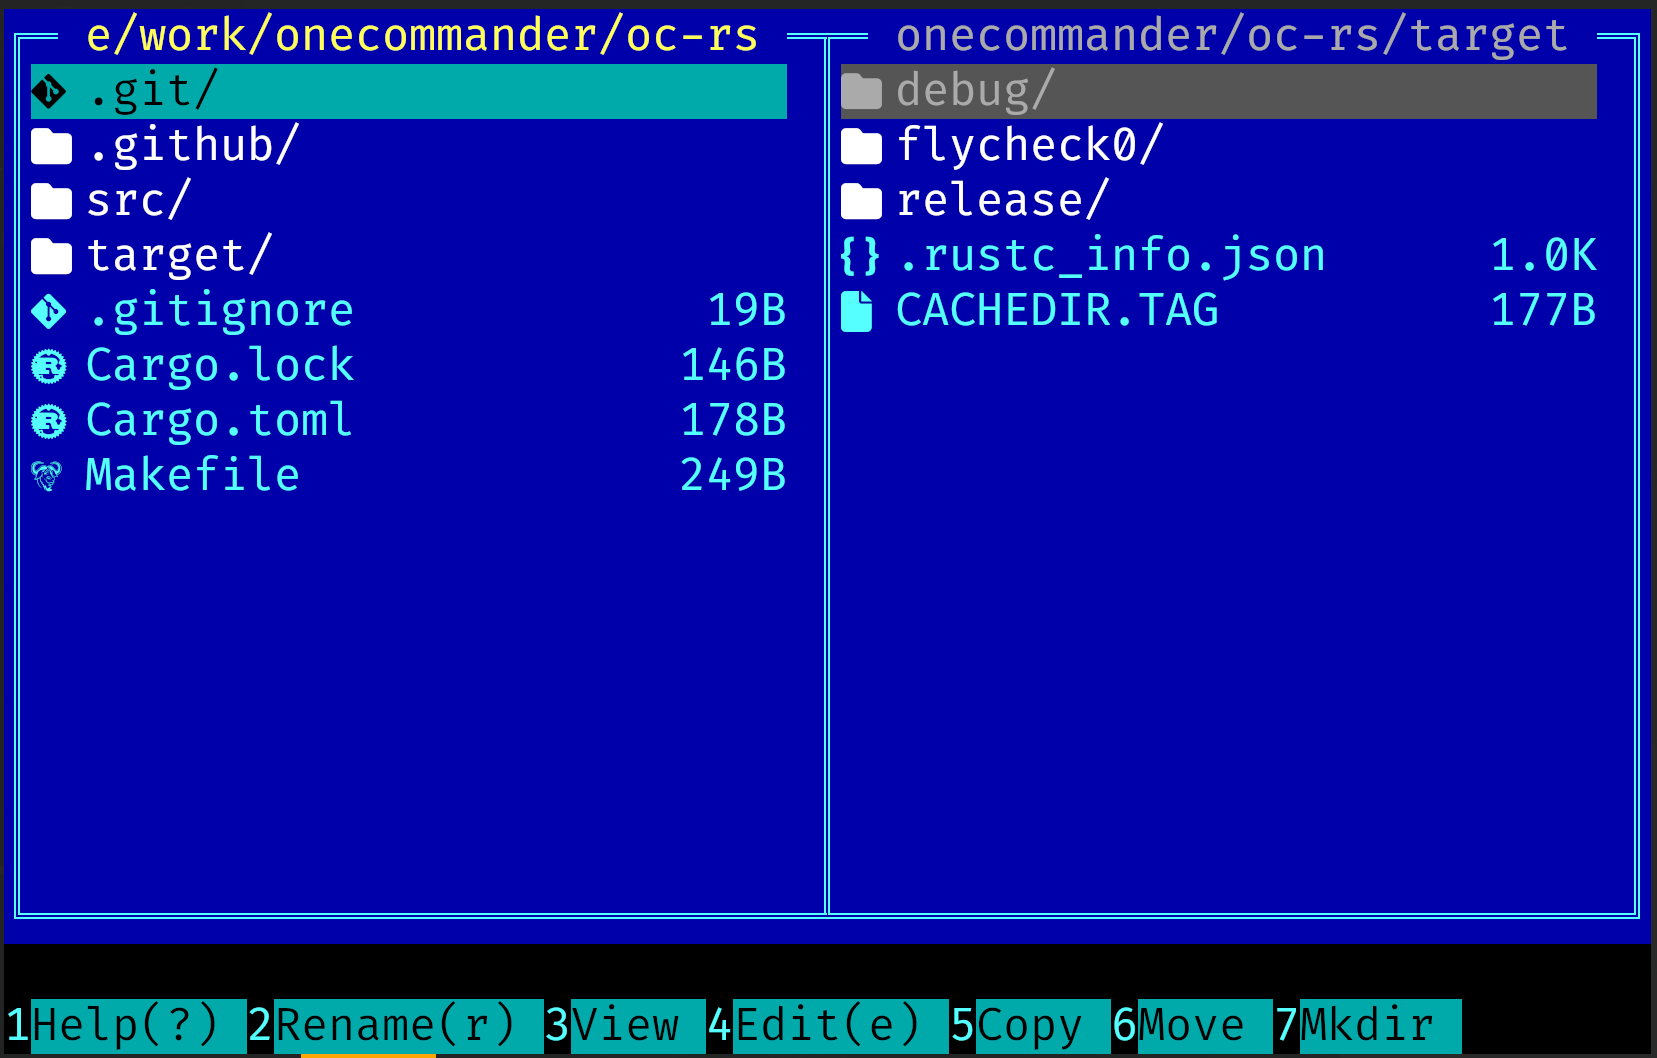
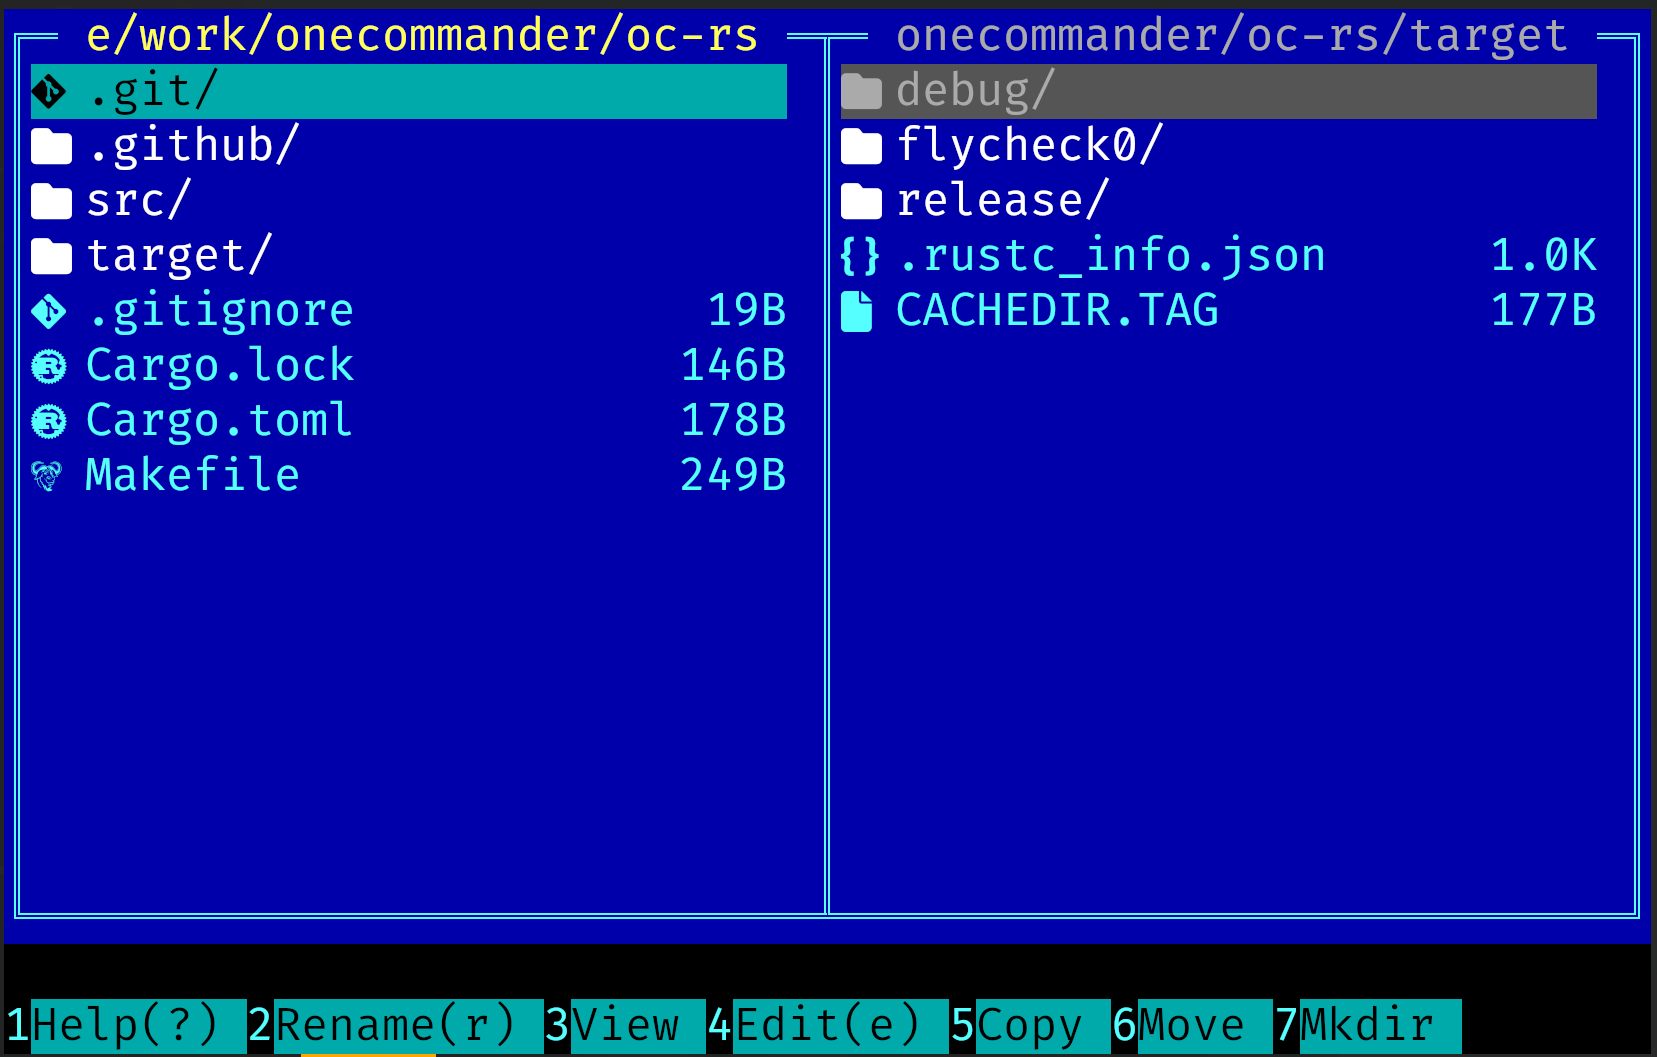
Fix blue background regression, dialog artifacts, crop screenshot
- Remove \x1b[2J from render (was causing last column to lose blue bg on
  some terminals that erase to default background instead of current SGR bg)
- Fix dialog leftovers: render() called after context menu picker closes,
  so subsequent prompts (rename, copy, etc.) always draw on a clean screen
- Crop bottom 1px from screenshot

diff --git a/src/main.rs b/src/main.rs
@@ -881,8 +881,6 @@ fn draw_info_row(o: &mut Out, row: u16, cols: usize, _pane: &Pane) {
 }
 
 fn render(o: &mut Out, panes: &mut [Pane; 2], active: usize) {
-    tc!(o, bg 0x00,0x00,0xAA);
-    write!(o, "\x1b[2J").unwrap();
     let (rows, cols) = term_size();
     let cols = cols as usize;
     let half = cols / 2;
@@ -1461,6 +1459,7 @@ fn op_context_menu(o: &mut Out, panes: &mut [Pane; 2], active: usize, mounts: &m
         "Refresh (R)".into(),
     ];
     let Some(idx) = picker(o, "Menu", &items) else { return };
+    render(o, panes, active); // clear picker overlay before next dialog
     match idx {
         0  => { let (a, _) = split(panes, active); op_view(o, a); }
         1  => { let (a, _) = split(panes, active); op_edit(o, a); }
